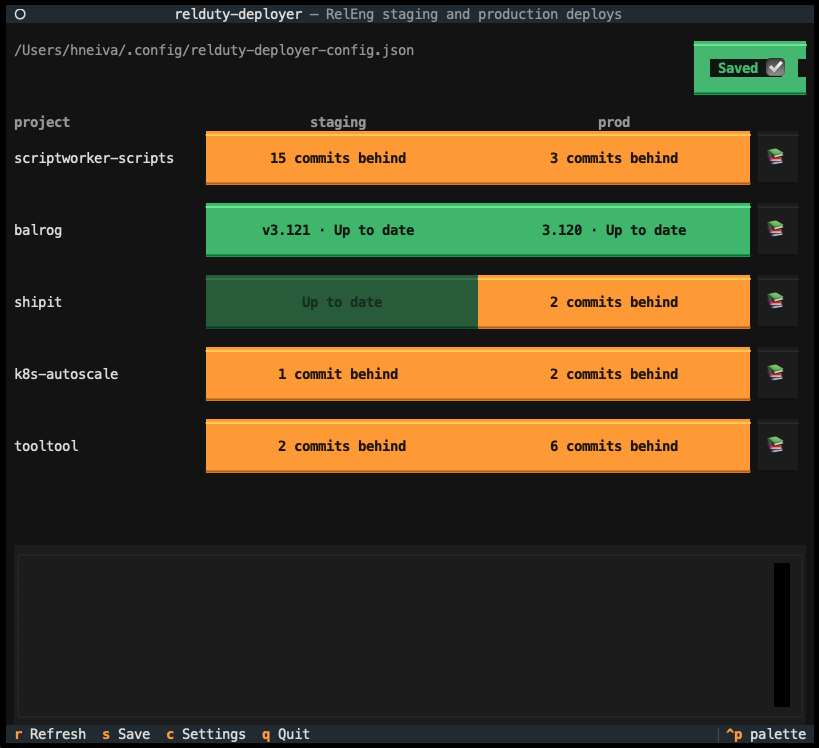
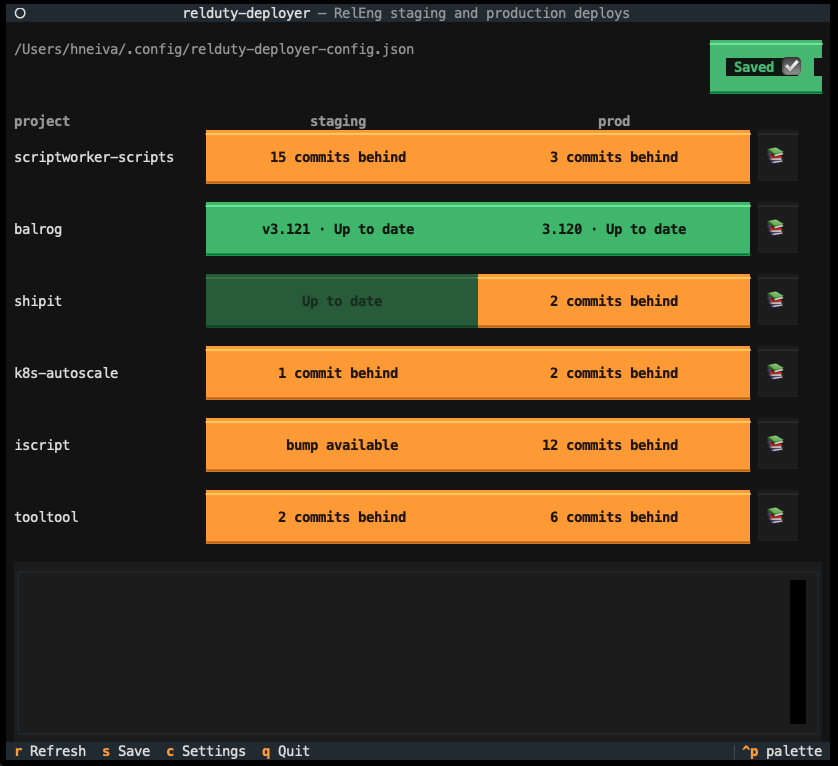
Describe iscript in the README

diff --git a/README.md b/README.md
@@ -5,9 +5,9 @@ RelEng project it knows about, shows how far each environment is behind, and per
 fast-forward push that deploys it.
 
 RelEng stages deployments every Tuesday and pushes them to production every Thursday. Doing
-that by hand means remembering that five repositories have three different source branches
-and two different names for "staging", and fetching each one before you can tell whether
-there is anything to deploy at all.
+that by hand means remembering that six repositories have three different source branches,
+two different names for "staging" and one project with no staging at all, and fetching each
+one before you can tell whether there is anything to deploy.
 
 For example:
 
@@ -17,6 +17,7 @@ For example:
  balrog                  v3.121 unreleased · 2 behind        3.120 · Up to date
  shipit                  2 commits behind                    2 commits behind
  k8s-autoscale           1 commit behind                     1 commit behind
+ iscript                 bump available                      12 commits behind
  tooltool                4 commits behind                    4 commits behind
 ```
 
@@ -45,9 +46,13 @@ nothing watches, which looks like success and deploys nothing.
 | k8s-autoscale | `main` | `dev` | `production` | branch push |
 | tooltool | `master` | **`staging`** | `production` | branch push |
 | balrog | `main` | GitHub release | ArgoCD | balrog (status only) |
+| iscript | `master` | revision bump | **`macos-signer-latest`** | iscript |
 
 Only the plain `dev` and `production` branches are offered for scriptworker-scripts. Its
 per-script `dev-<script>` and `production-<script>` branches remain a manual escape hatch.
+
+iscript is the odd one: it deploys out of `mozilla-platform-ops/ronin_puppet`, so its clone
+defaults to `~/dev/ronin_puppet` rather than a directory named after the project.
 
 ## What the colours mean
 
@@ -58,6 +63,8 @@ per-script `dev-<script>` and `production-<script>` branches remain a manual esc
 | red `N behind, M ahead` | the deploy branch has commits the source branch lacks | nothing |
 | red `M ahead` | same, with nothing to deploy | nothing |
 | grey `n/a` | the state could not be determined | nothing |
+| yellow `bump available` | iscript pins an older revision | opens the confirmation |
+| yellow `PR #N open` | that bump is already waiting for review | opens the PR |
 
 ## Safety
 
@@ -73,6 +80,10 @@ push is not forced so git itself rejects a non-fast-forward.
 The confirmation dialog shows the resolved commit sha, the commits being shipped, the
 remote's URL, and the exact command. It offers a repeatable dry run, and Cancel holds the
 initial focus so a stray Enter cannot deploy production.
+
+iscript's revision bump is the one button that writes rather than pushes, and it never
+writes to your clone: the commit is assembled and pushed straight to a branch, so a dirty
+ronin_puppet checkout on some half-finished branch is left exactly as you left it.
 
 Two further traps are checked rather than assumed. The remote must point at the canonical
 `mozilla-releng` repository, because a push to a personal fork succeeds and deploys
@@ -104,6 +115,21 @@ same version as stage, read from the public Dockerflow endpoints
 Staging showing yellow is usually correct rather than a bug: the documented flow bumps the
 version immediately after each release, so the steady state genuinely is "the version on
 `main` has not been released yet".
+
+## iscript
+
+iscript is not deployed from a repository of its own. The mac signers run whatever
+scriptworker-scripts revision `ronin_puppet` pins, so there are two separate things to do,
+and the first column does the first of them.
+
+`bump available` means the pin is behind scriptworker-scripts `master`. Pressing it opens a
+pull request against ronin_puppet that moves the pin forward and nothing else — one line,
+titled `chore(iscript): Bump revision`. Once that PR exists the button says `PR #N open` and
+takes you to it, so a second click cannot open a competing one. Nothing is written until you
+confirm, and `Dry run` will tell you what it would do without pushing anything.
+
+The prod button is an ordinary deploy, onto `macos-signer-latest` instead of a branch called
+`production`. Landing a bump does not deploy it — that is what the prod button is for.
 
 ## Configuration
 
